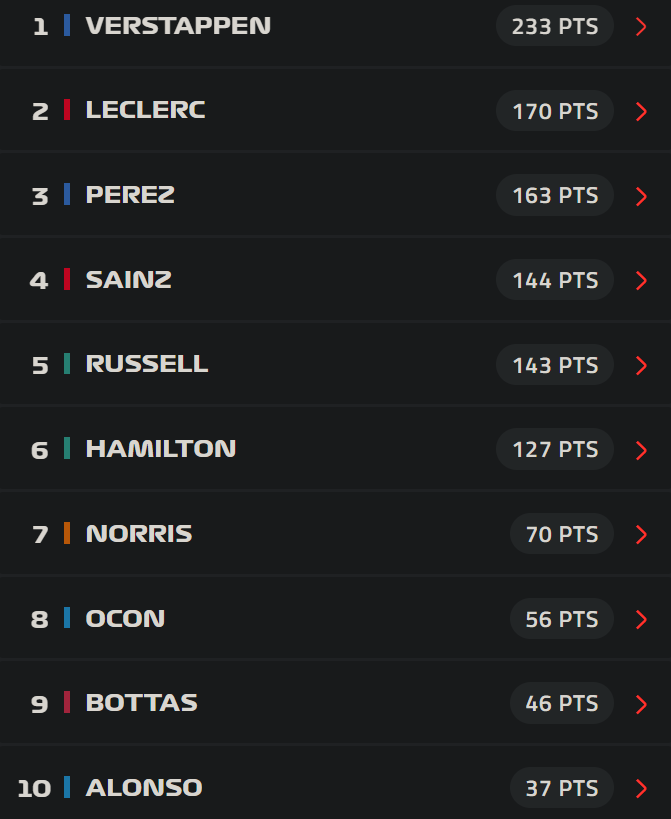
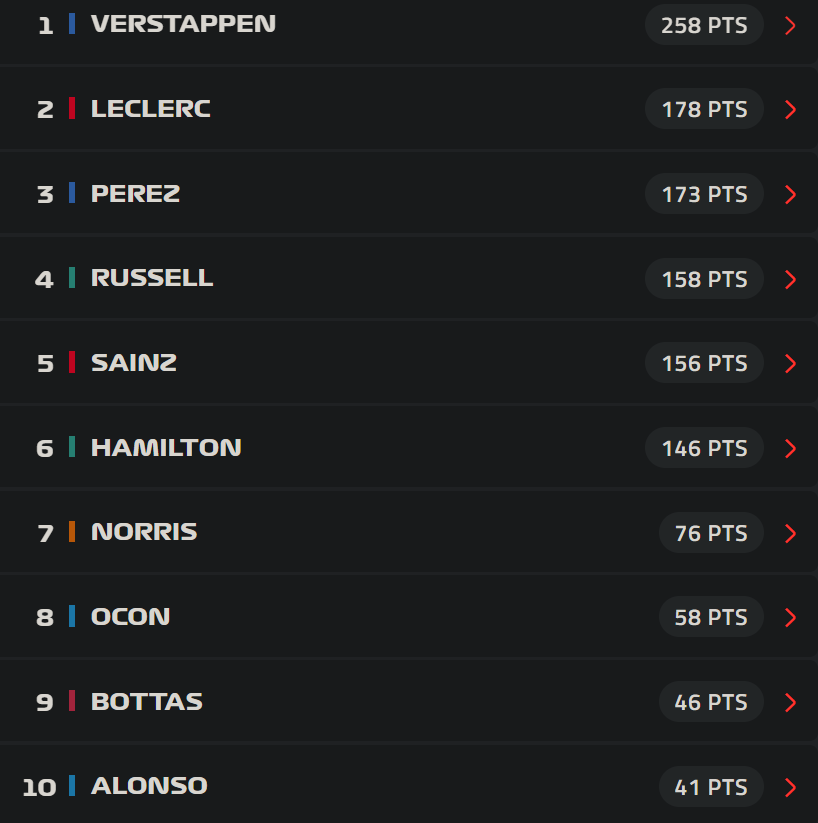
f1 standing update

diff --git a/Home.md b/Home.md
@@ -1,0 +1,1 @@
+<h1>Hi</h1>
